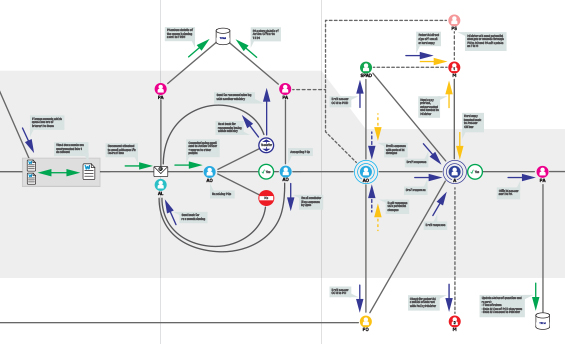
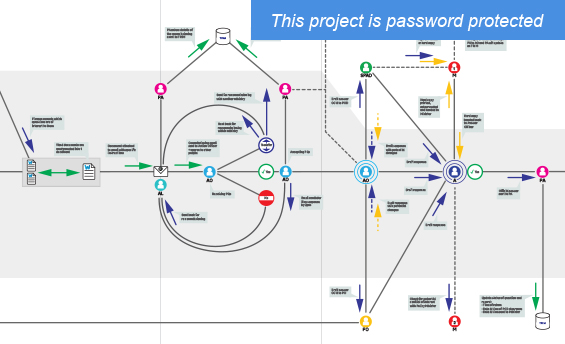
Updates from Tom and some new projects too.

Changed region(s): [[0.4212, 0.0, 1.0, 0.1163]]

diff --git a/src/projects/Sky_1.md b/src/projects/Sky_1.md
@@ -1,0 +1,54 @@
+---
+template: project.html
+title: Responsive design for customer services
+client: Sky
+role: UI design, Interaction Design
+startdate: 2012-10-01
+enddate: 2014-05-01
+coverimage: LandingPage_Sky1.jpg
+website: https://contactus.sky.com/uk.com/
+images:
+  - src: Project_Sky1_1.jpg
+    description: |
+      This was the customer’s package page, displaying what they were paying for. 
+
+      We discovered through research that customers rarely knew where to find their account number, so we dsplayed this in a prominent position.
+  - src: Project_Sky1_2.jpg
+    description: |
+      This page showed customers the services as part of the package that were available to them at no extra cost.
+
+      Research showed that many customers were not aware of these services that were available to them. The package ‘completeness’ bar at the top showed in a glance how many of these services were being used. 
+
+      This is an example of the the work done on the touch gestures for mobile. 
+  - src: Project_Sky1_3.jpg
+    description: |
+      The Contact section comprised of a decision tree for customers to select the area they wished to get help for.
+
+      The  shape of the content was based on the large quantity of Sky services as well as research to discover the most request areas of customer frustation. The focus of this design was to always show the last section that had been selected to give context to the user request.
+
+      This was an earlier sketch to start working out the content flow from the mobile size perspective.
+  - src: Project_Sky1_4.jpg
+    description: |
+      This is the mobile view. The 3 column decision tree was split up into 3 distinct screens.
+  - src: Project_Sky1_5.jpg
+    description: |
+      This is the tablet view. The content labels accounted for a small reduction in width to maintain the 3 columns.
+  - src: Project_Sky1_6.jpg
+    description: |
+      This was the desktop design.
+
+
+---
+I worked on a number of responsive design projects for Sky Digital, focusssing on the customer relations areas of the website - My Sky, the subscriber hub for Sky customers and the Contact section.
+
+**My Sky section**
+**Tasks included:** Re-purposing an important customer-focussed section of Sky.com to be fully responsive and more personalised. Improving existing journeys, interactions and messaging based around the results of A/B user testing.
+
+**Outcomes:** Reducing customer churn by putting the spotlight on the value of the Sky package based on user research and testing. Reducing Helpline calls by rethinking existing ‘broken’ journeys. Improving the messaging and notifications formats, as well as providing the customers with responsively designed and accessible UI solutions.
+
+**Contact section**
+**Tasks included:** Designing a fully responsive website solution for the customer contact area of Sky.com. Based around the existing Sky contact centre set-up, the improved signposting, interactions and functionality across devices were directly based on user lab testing results and best practice.
+
+**Outcomes:** The customer contact volumes increased with far less fall-off rates than before and customers expressed satisfaction at the clarity of information. The delivery of this project is also a first among industry competitors. As a designer I fought hard against the ‘dark patterns’ being proposed by the business and based on user testing my team manage to mitigate against a lot of this regressive practice.
+
+I’m pleased to say that 3 years later, they are still using my design for their contact section.

diff --git a/src/projects/ho_2.md b/src/projects/ho_2.md
@@ -16,7 +16,7 @@ images:
       I am a fan of clear communication and everyone in the team and stakeholders having a clear picture of the task at hand.
   - src: Project_HelpRefugees_2.jpg
     description: |
-      This process map was used to show how the user information flowed. It was also simplified to help the main stakeholder understand the proposal.
+      This process map was used to show how the user information flowed. It was also simplified to help the main stakeholder understand the proposal. 
   - src: Project_HelpRefugees_3.jpg
     description: |
       This is the landing page for the service. There was a lot of effort put into the content design and the layout in order to make it as simple and straight-forward as possible.
@@ -33,9 +33,9 @@ images:
 
 
 ---
-Due to a high level of public interest and concern, we were tasked with developing a trial online solution to help members of the public find out how and what kind of help to be able to offered to refugees.
+Due to a high level of public interest and concern, we were tasked with developing a trial online solution to help members of the public find out how and what kind of help to be able to offered to refugees. 
 
-User research identified that councils enrolled in the trial project needed a way to tell the public what they wanted to help their newly arrived refugees, rather than receive lots of things that they didn’t need.
+User research identified that councils enrolled in the trial project needed a way to tell the public what they wanted to help their newly arrived refugees, rather than receive lots of things that they didn’t need. 
 
 I designed a system where the council has a log in, then a check list of items or services to select, which they can then publish to the public Gov.uk website. The public select their local area on the website, view the list of requested donations, check off what they’d like to offer on the list, leave their contact details and the council will contact them to arrange for delivery of the items or services.
 

diff --git a/src/projects/WineParlour.md b/src/projects/WineParlour.md
@@ -1,0 +1,39 @@
+---
+template: project.html
+title: Wine Parlour branding
+client: Chix & Buck
+role: Art direction, Branding, Illustration, Typography, UI design
+startdate: 2014-10-01
+enddate: 2015-06-01
+coverimage: LandingPage_WineParlour.jpg
+website: http://www.thewineparlour.com/
+images:
+  - src: Project_WineParlour_1.jpg
+    description: |
+      The headboard signage for the wine bar.
+  - src: Project_WineParlour_2.jpg
+    description: |
+      An example page from the brand guidelines document.
+  - src: Project_WineParlour_3.jpg
+    description: |
+      My illustration of the wine bar for the house wine bottle labels. It’s a sketch of the wine bar, with the owner at the door.
+  - src: Project_WineParlour_4.jpg
+    description: |
+      The house wine label designs.
+  - src: Project_WineParlour_5.jpg
+    description: |
+      The house wine label designs in situ.
+  - src: Project_WineParlour_6.jpg
+    description: |
+      My direction for the website content was to lean towards the experience, the story of the company, the day-to-day blog, tastings and courses.
+  - src: Project_WineParlour_7.jpg
+    description: |
+      My storyboards for the photoshoots.
+
+
+---
+I was commissioned by boutique wine specialists Chix & Buck to create a compelling and sophisticated design for the exterior of their first wine shop/wine bar located in Brixton. The brief was to set the scene for a unique wine experience by creating a charistmatic, yet clean and simple identity through the use of typography.
+
+I also created brand guidelines for the use of logos, fonts, colours, spacing and imagery. From there I designed the wine labels, as well as illustrating the label image. I made templates for the menus, generic wine labels and shelf labels so that the business was easily able update the changing content.
+
+I designed the website, consulted on the content structure and art directed 2 photo shoots to provide bespoke image collateral for the business to use for the website and other promotional material.

diff --git a/src/projects/Sky_2.md b/src/projects/Sky_2.md
@@ -1,0 +1,27 @@
+---
+template: project.html
+title: Customer self help journeys
+client: Sky
+role: UI design, Interaction Design, Illustration
+startdate: 2011-12-01
+enddate: 2012-10-01
+coverimage: LandingPage_Sky2.jpg
+
+images:
+  - src: Project_Sky2_1.jpg
+    description: |
+      An example of a step-by-step guide to help resolve common problems with the Sky dish input cables.
+  - src: Project_Sky2_2.jpg
+    description: |
+      Are your cables frayed?! 
+  - src: Project_Sky2_3.jpg
+    description: |
+      Are your cables bent, broken or squashed under furniture?!
+
+
+---
+I was asked to develop imagery for a ‘self-help’ area within the Help & Support section of Sky.com. I was influenced by both IKEA construction guides for their products and Haynes automobile manuals. I was keen to avoid the usual photographic representations of Sky products as they were less specific and were full of visual clutter, by producing line drawn representations I could also export them, as an SVG format, reducing the image size further.
+
+**Tasks included:** Certain key customer problem areas were identified and content was devised as step-by-step guides. In the spirit of Haynes car manuals and Ikea instruction leaflets, I devised simple line drawn annotated infographics to described stepped processes using Sky products such as TV boxes, remote controls and routers. Some were hand-drawn, others were based around vector exports from the product team’s 3D product renders.
+
+**Outcomes:** The clear and concise imagery, devoid of colour and shadow makes the (sometimes complicated) instructions considerably easier to understand. Using the line grids from original 3D renders I was able to reproduce these drawings very quickly.

diff --git a/src/projects/CDG.md b/src/projects/CDG.md
@@ -1,0 +1,35 @@
+---
+template: project.html
+title: User interface design
+client: Conran Design Group
+role: UI design
+startdate: 2011-06-01
+enddate: 2011-10-01
+coverimage: LandingPage_CDG.jpg
+images:
+  - src: Project_CDG_1.jpg
+    description: |
+      An example page from an Annual report for Astrazeneca, a British-Swedish multinational pharmaceutical and biopharmaceutical company.
+  - src: Project_CDG_2.jpg
+    description: |
+      An example page from an Annual report for Reed Elsevier, a multinational information and analytics company.
+  - src: Project_CDG_3.jpg
+    description: |
+      The home page for the Vi-Spring website. Vi-Sping are a company that produce luxury beds.
+  - src: Project_CDG_4.jpg
+    description: |
+      The website used lots of high-end photography and sliding panels to showcase the product.
+
+
+---
+I worked on a number of digital annual reports for some major corporations, using a lot of rich-media and animated
+infographics to spice up this usually boring subject.
+
+**Tasks included:** UI design and layout for digital annual reports. Laying out large quantities of 
+content and managing changes through graphic specification documentation - the brand guideline 
+specifications were made at the same time as the design, working closely with the clients to allow close cooperation and project visibility.
+
+I also worked a promotional website for Vi-Spring, a company making bespoke beds.
+
+**Tasks included:** UI design and layout for high end content using a rich media experience. Again, using 
+the same approach of creating brand documentation as the project developed.

diff --git a/src/projects/MoJ_2.md b/src/projects/MoJ_2.md
@@ -6,7 +6,7 @@ role: Service design, Interaction design, UX design, UI design
 startdate: 2014-06-01
 enddate: 2014-09-01
 coverimage: LandingPage_PQs.jpg
-related: https://mojdigital.blog.gov.uk/2014/11/21/minding-our-pqs-parliamentary-questions-tracker/
+website: https://mojdigital.blog.gov.uk/2014/11/21/minding-our-pqs-parliamentary-questions-tracker/
 auth: true
 images:
   - src: Project_PQs_1.jpg
@@ -44,6 +44,9 @@ images:
   - src: Project_PQs_7.jpg
     description: |
       I designed this map of the service to show the mechanics and interdependancies of the PQ tracker tool.
+  - src: Project_PQs_8.jpg
+    description: |
+      This is me working something out. I usually do this in an 20th century style with pen and paper.
 
 
 ---

diff --git a/src/projects/ho_1.md b/src/projects/ho_1.md
@@ -39,6 +39,9 @@ images:
       It was very important to maintain the privacy of the refugee data and keep it locked behind the Home Office network.
 
       Third-party organisations are given log-ins and notified by email of cases to process and then upload the results directing into the service as data.
+  - src: Project_SRRS_7.jpg
+    description: |
+      As well as constant paper sketching I also made some large scale drawings to provoke discussions around specific service design interactions with the team.
 
 
 ---
